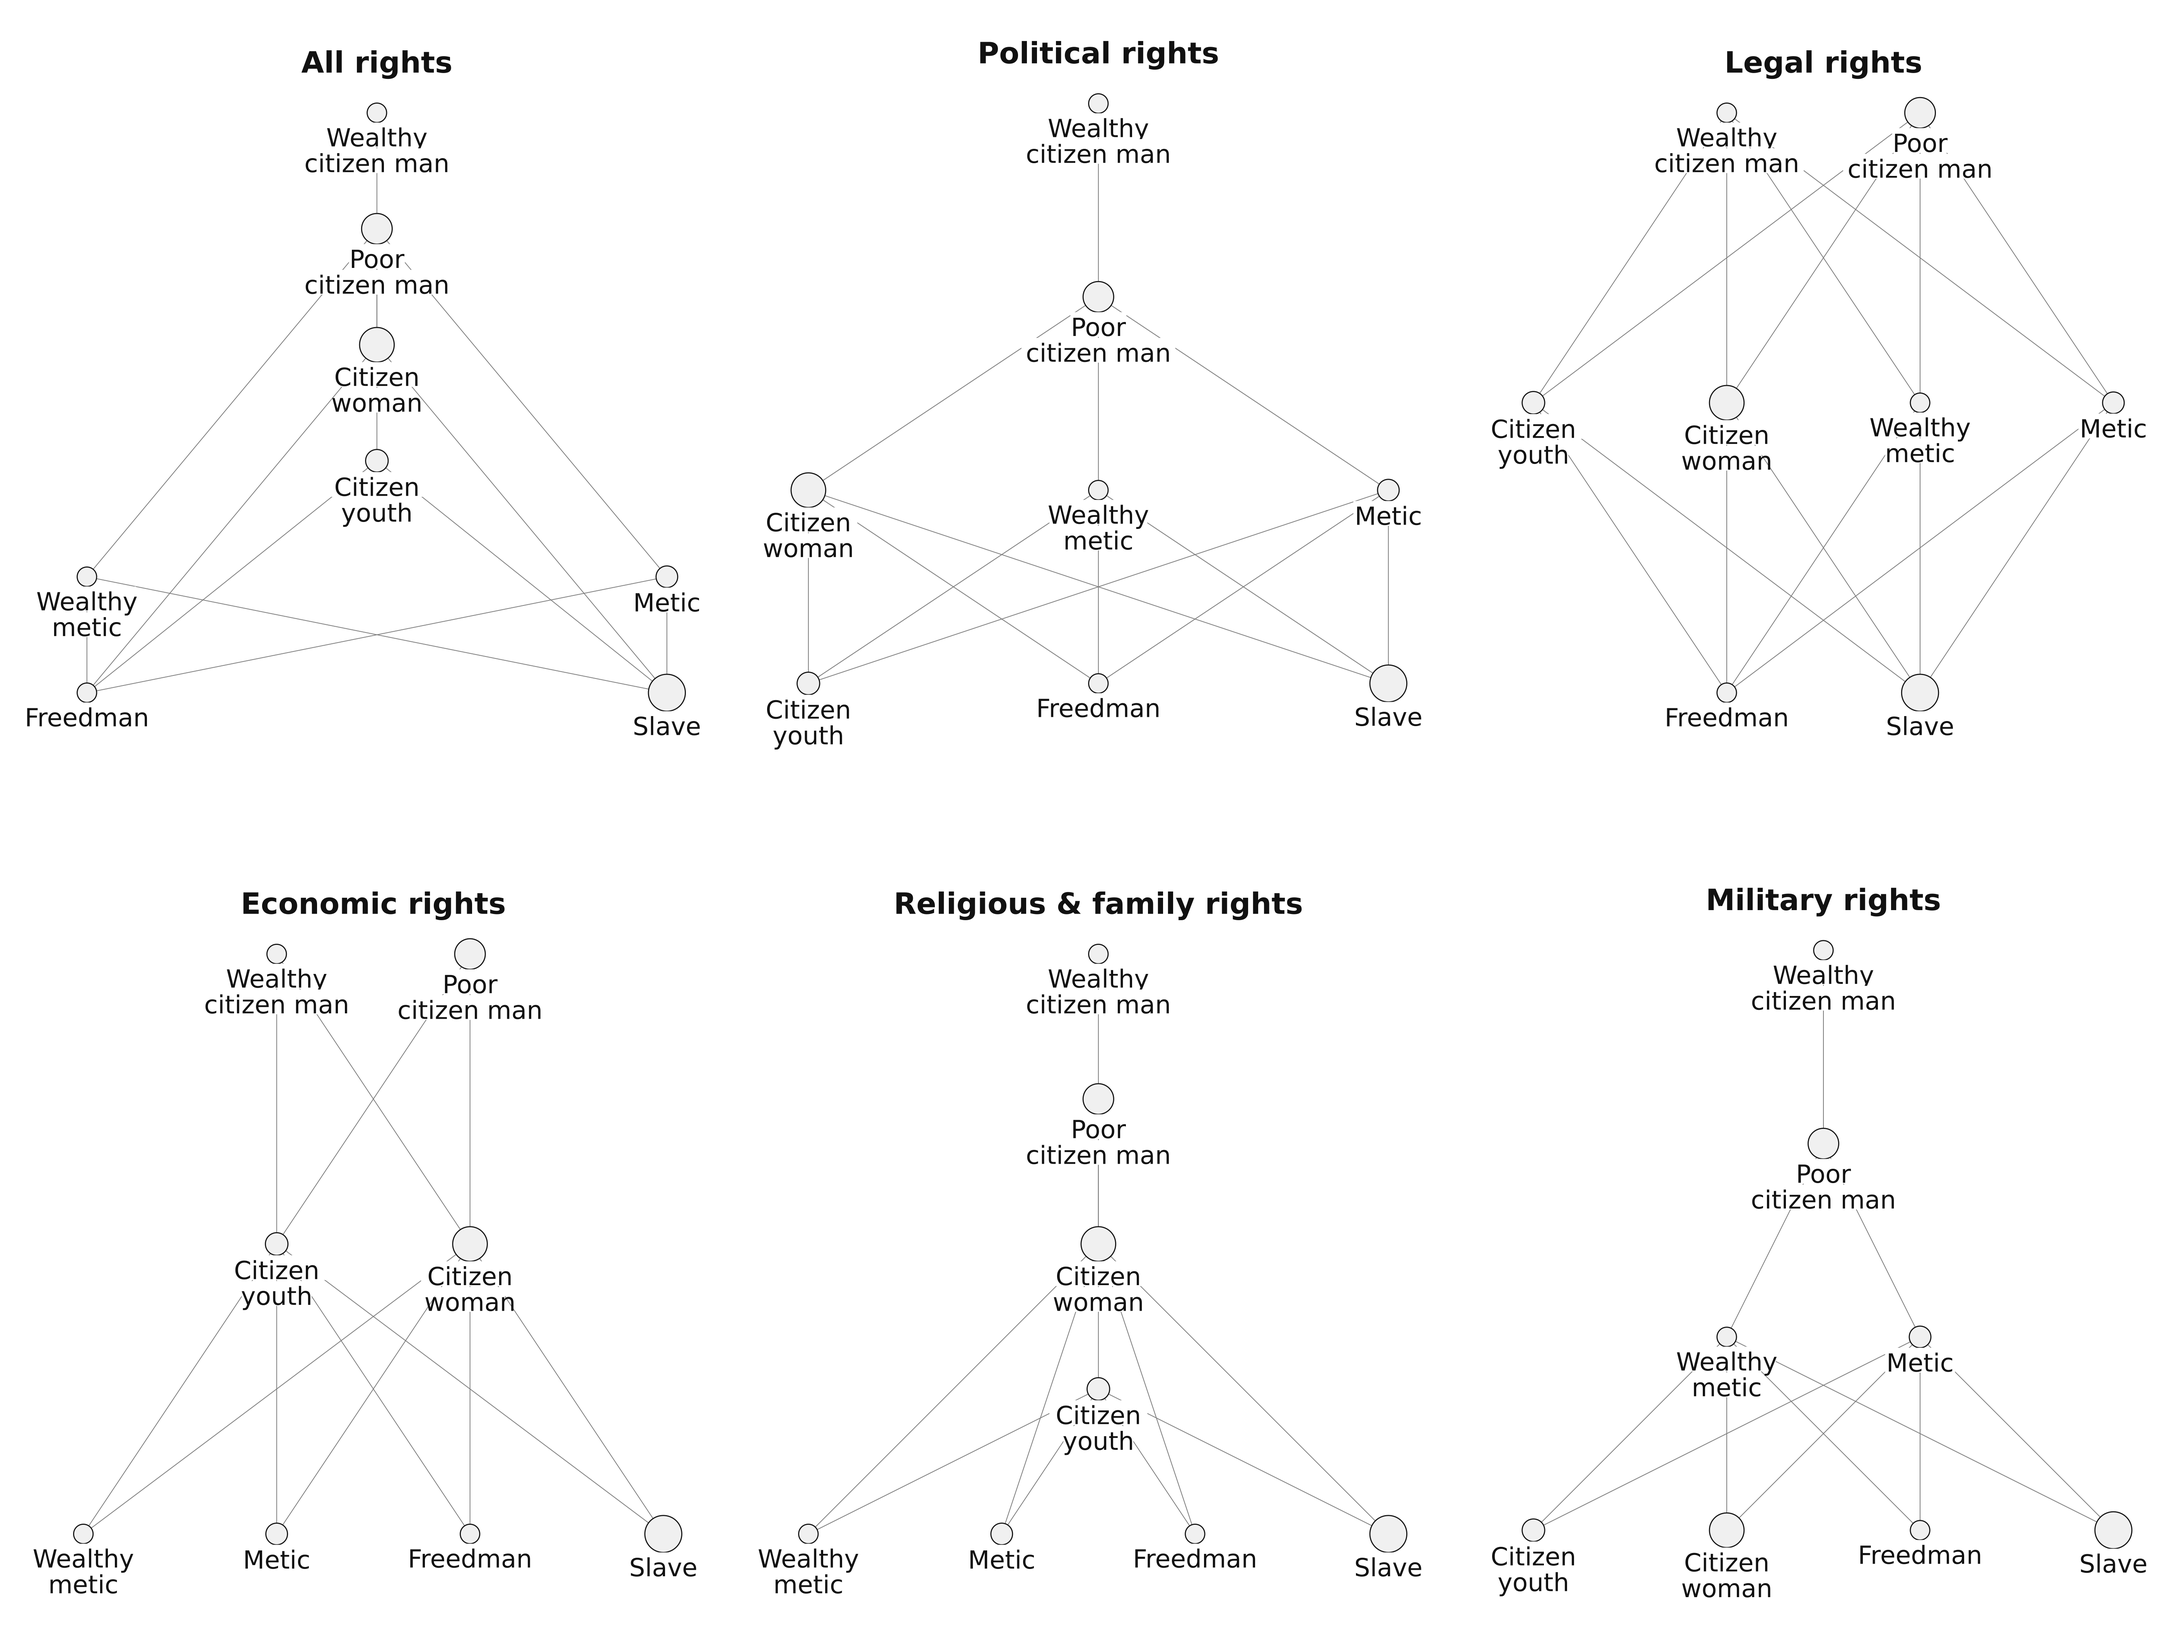
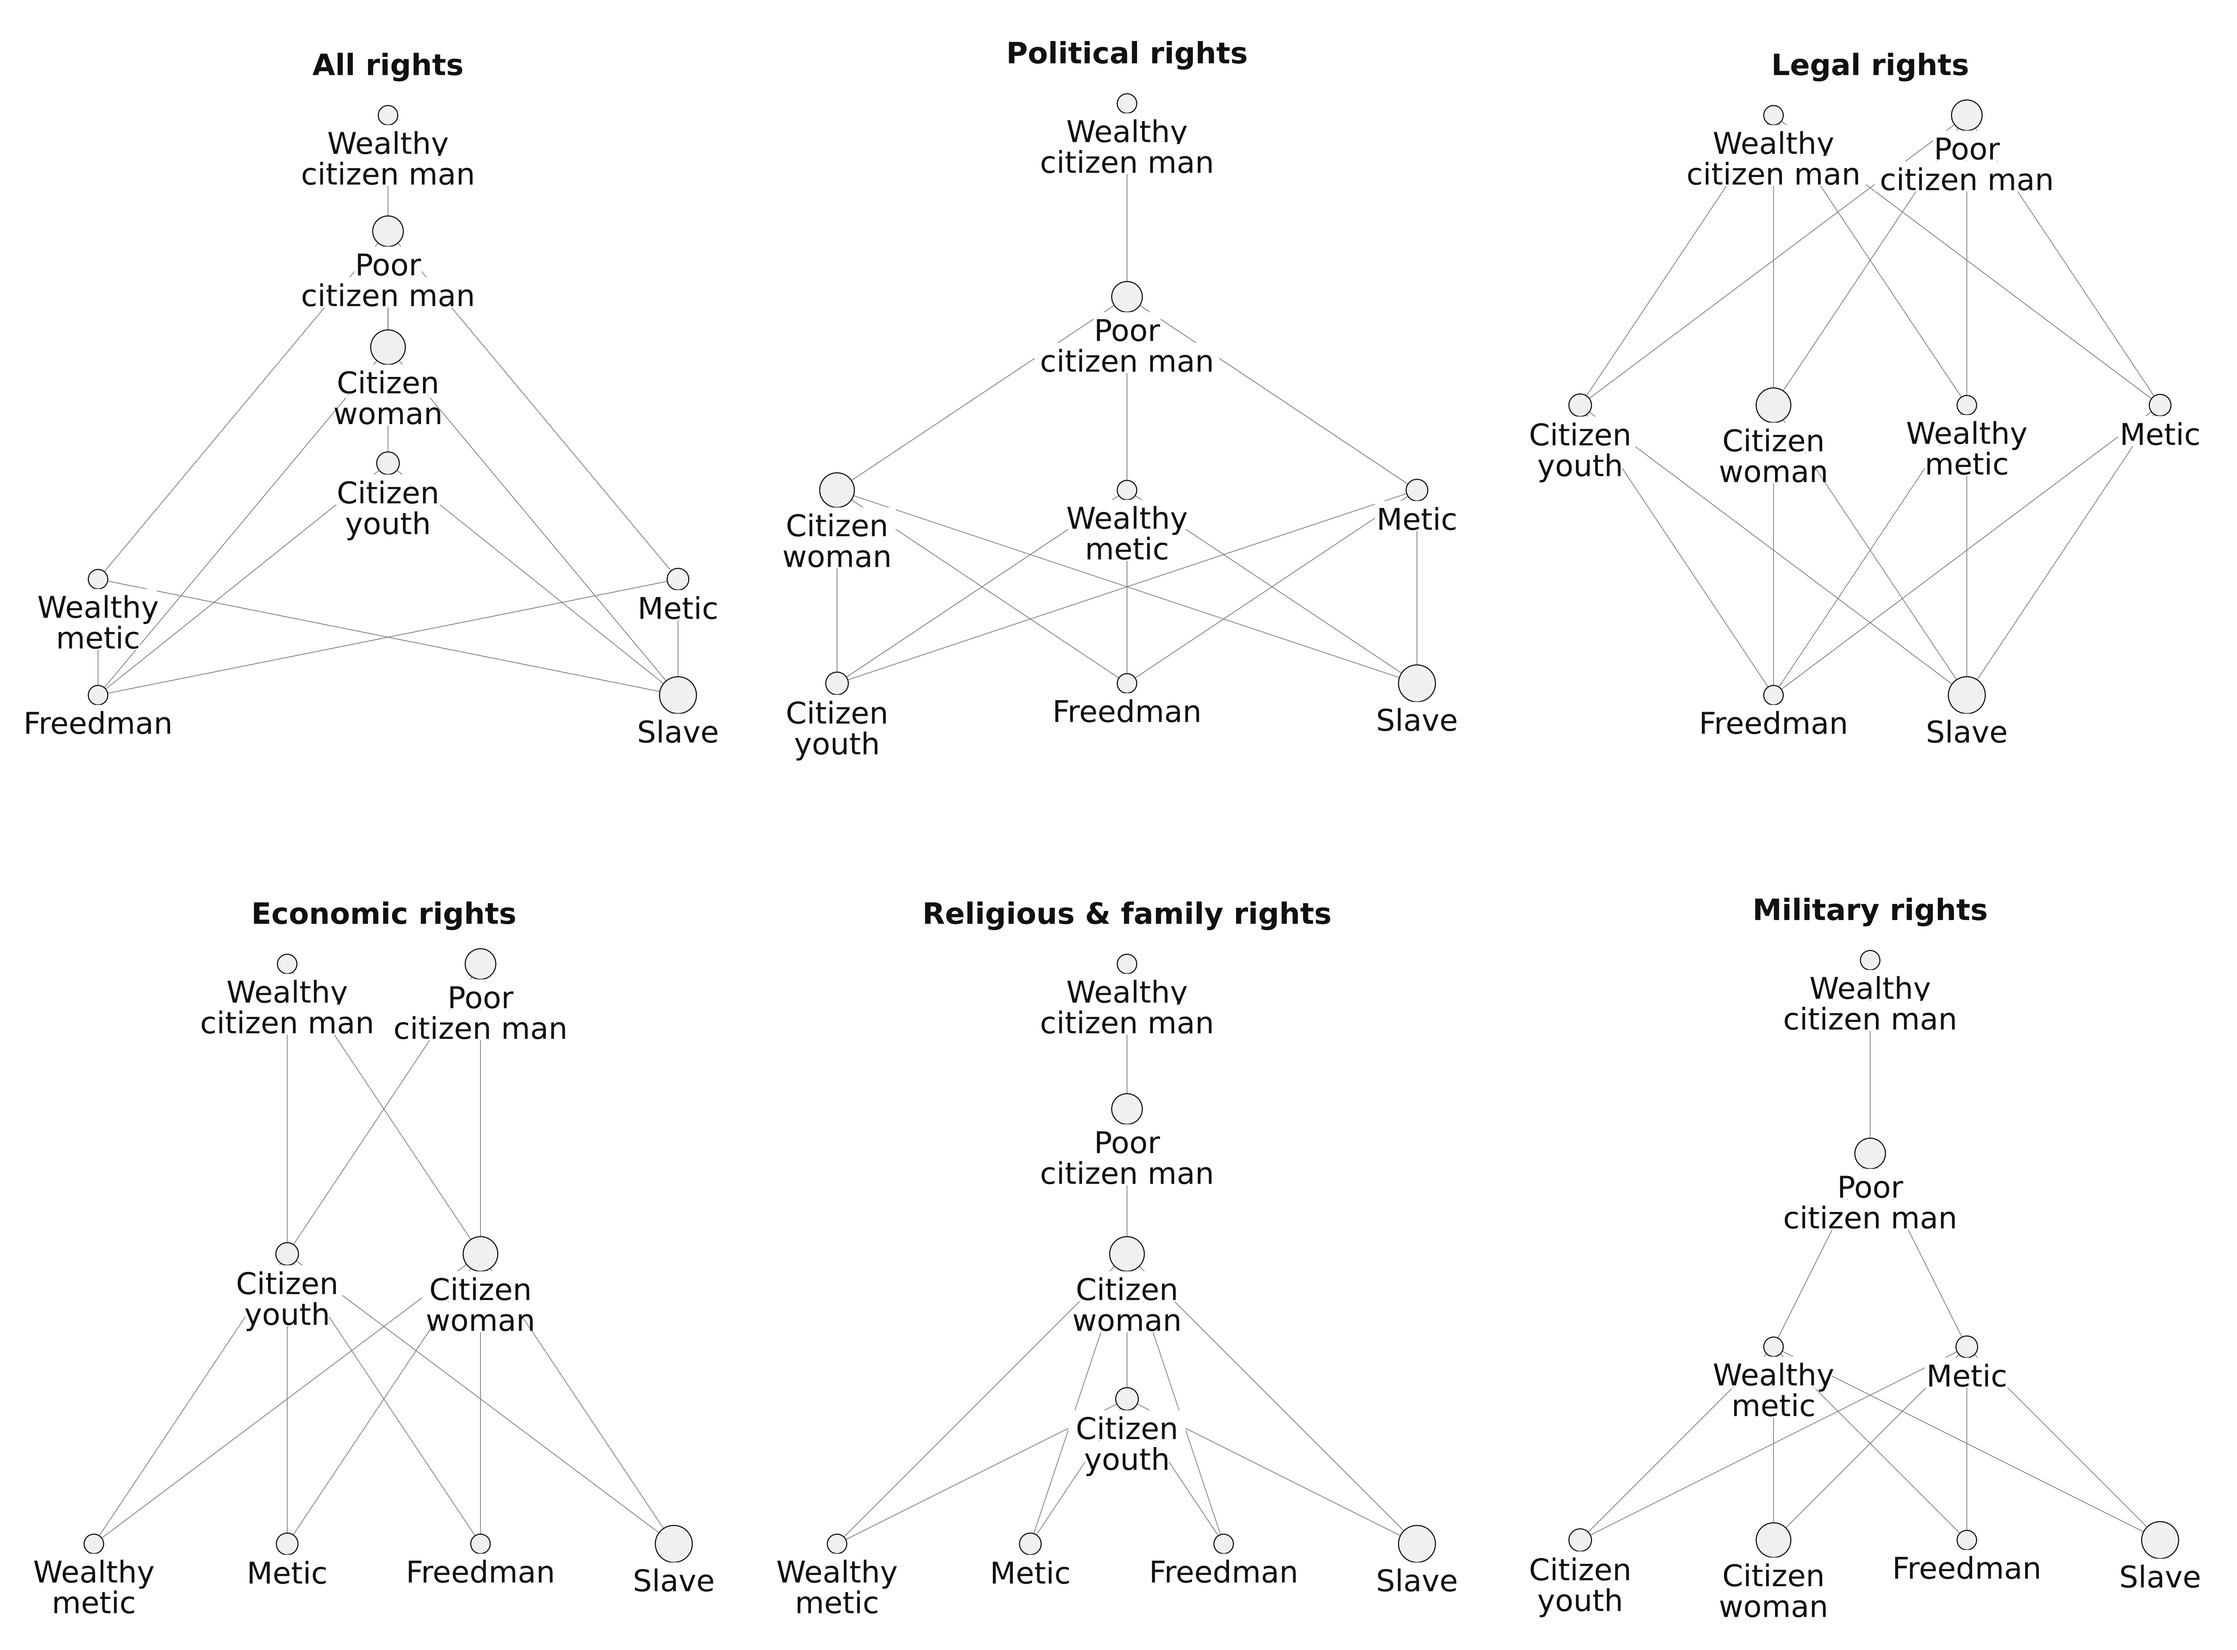
CHA-64: scale Figure 3 group node labels 1.2x (17 -> 20.4)

diff --git a/notebooks/build_fig29_3x2.py b/notebooks/build_fig29_3x2.py
@@ -250,7 +250,7 @@ def fig_group_panels_3x2(node_scale=1.4, text_scale=1.9, vs=150, xs_gap=250,
         return type_panel(0, top, title, GNAMES, hmap,
                           radius=lambda n: node_scale * max(9.0, 1.35 * math.sqrt(POPULATION[n])),
                           split=lambda n: GROUP_SPLIT[n], vs=vs_i, xs_gap=xs_i,
-                          hy_off=52, label_fs=17 * text_scale, title_fs=20 * text_scale,
+                          hy_off=52, label_fs=20.4 * text_scale, title_fs=20 * text_scale,
                           label_inside=False)
 
     panels = [build_panel(*s) for s in shapes]
